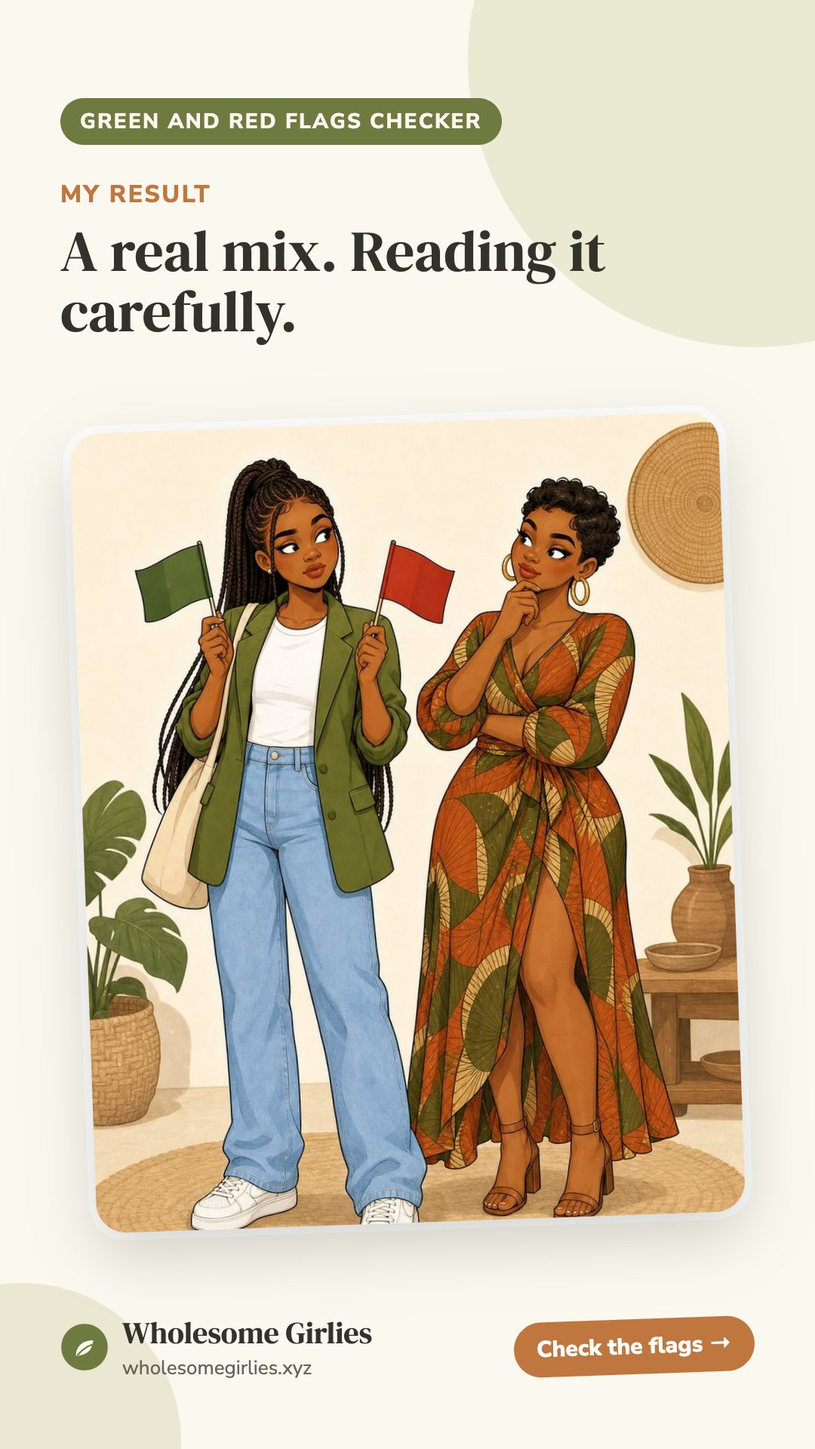
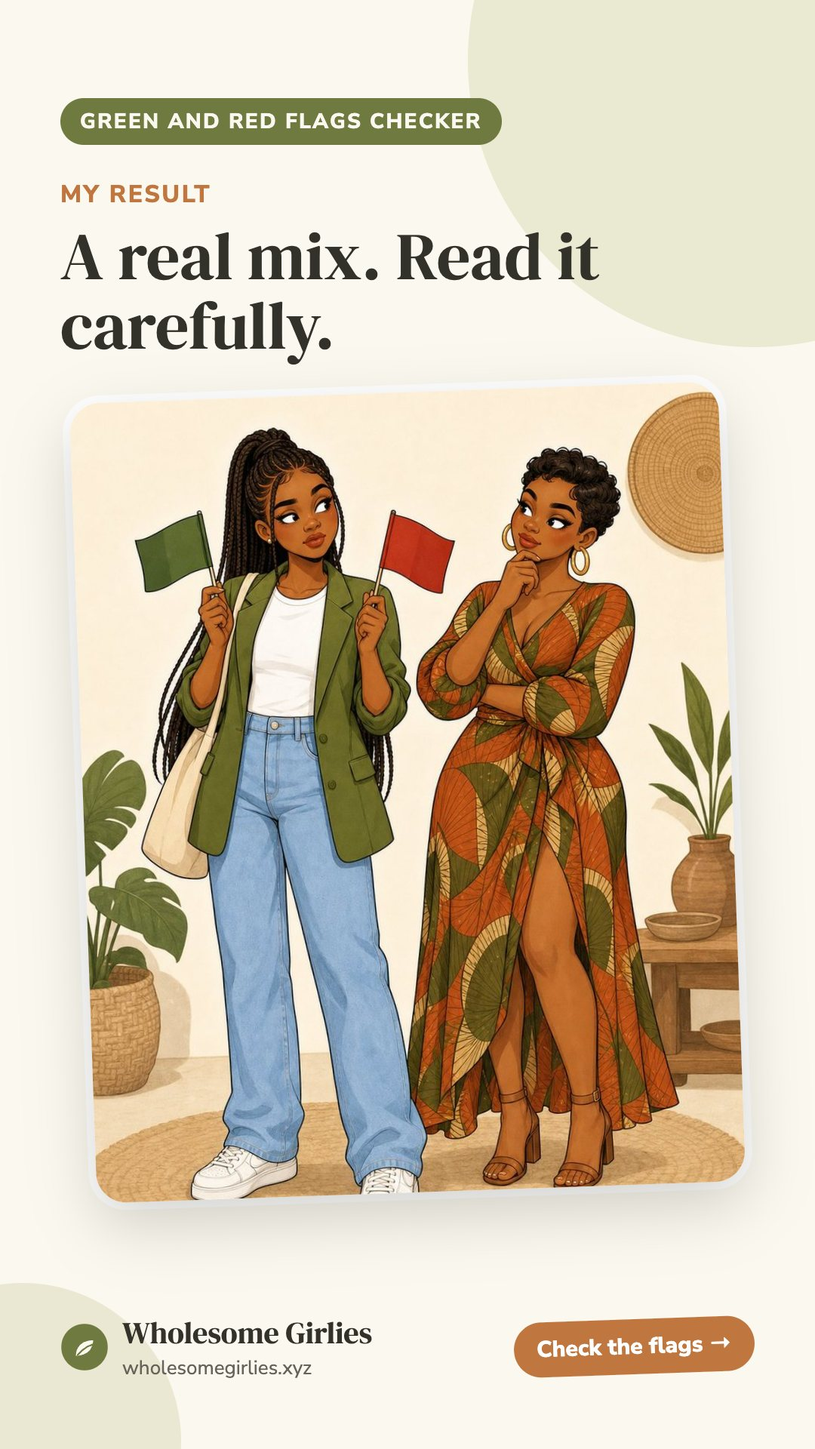
Result cards: plainer result text in results.json, mixed card re-rendered, RESULT_VERSION 20261008a; situationship checker intro drops an unsourced claim

Changed region(s): [[0.0917, 0.25, 0.9167, 0.875], [0.0611, 0.1562, 0.7333, 0.25]]

diff --git a/relationships/tools/green-red-flags-checker/result/mixed.html b/relationships/tools/green-red-flags-checker/result/mixed.html
@@ -11,23 +11,23 @@ j=d.createElement(s),dl=l!='dataLayer'?'&l='+l:'';j.async=true;j.src=
 'https://www.googletagmanager.com/gtm.js?id='+i+dl;f.parentNode.insertBefore(j,f);
 })(window,document,'script','dataLayer','GTM-KW443M88');</script>
 <!-- End Google Tag Manager -->
-<title>My Green and Red Flags checker result: A real mix. Reading it carefully. | Wholesome Girlies</title>
+<title>My Green and Red Flags checker result: A real mix. Read it carefully. | Wholesome Girlies</title>
 <meta name="robots" content="noindex, nofollow">
-<meta name="description" content="A real mix. Reading it carefully. What would yours say? Take the Green and Red Flags checker on Wholesome Girlies.">
+<meta name="description" content="A real mix. Read it carefully. What would yours say? Take the Green and Red Flags checker on Wholesome Girlies.">
 <link rel="canonical" href="https://wholesomegirlies.xyz/relationships/tools/green-red-flags-checker/result/mixed">
 <meta property="og:type" content="website">
 <meta property="og:site_name" content="Wholesome Girlies">
-<meta property="og:title" content="My Green and Red Flags checker result: A real mix. Reading it carefully.">
+<meta property="og:title" content="My Green and Red Flags checker result: A real mix. Read it carefully.">
 <meta property="og:description" content="What would yours say? Take the Green and Red Flags checker on Wholesome Girlies.">
 <meta property="og:url" content="https://wholesomegirlies.xyz/relationships/tools/green-red-flags-checker/result/mixed">
-<meta property="og:image" content="https://wholesomegirlies.xyz/assets/img/results/green-red-flags-checker/mixed.jpg?v=20261007b">
+<meta property="og:image" content="https://wholesomegirlies.xyz/assets/img/results/green-red-flags-checker/mixed.jpg?v=20261008a">
 <meta property="og:image:width" content="1200">
 <meta property="og:image:height" content="630">
 <meta name="twitter:card" content="summary_large_image">
 <meta name="twitter:site" content="@wgirlieshq">
-<meta name="twitter:title" content="My Green and Red Flags checker result: A real mix. Reading it carefully.">
+<meta name="twitter:title" content="My Green and Red Flags checker result: A real mix. Read it carefully.">
 <meta name="twitter:description" content="What would yours say? Take the Green and Red Flags checker on Wholesome Girlies.">
-<meta name="twitter:image" content="https://wholesomegirlies.xyz/assets/img/results/green-red-flags-checker/mixed.jpg?v=20261007b">
+<meta name="twitter:image" content="https://wholesomegirlies.xyz/assets/img/results/green-red-flags-checker/mixed.jpg?v=20261008a">
 <link rel="preconnect" href="https://fonts.googleapis.com">
 <link rel="preconnect" href="https://fonts.gstatic.com" crossorigin>
 <link rel="stylesheet" href="/assets/css/styles.css?v=20260930a">
@@ -71,8 +71,8 @@ height="0" width="0" style="display:none;visibility:hidden"></iframe></noscript>
   <div class="wrap narrow">
     <div class="breadcrumb"><a href="/">Home</a> / <a href="/relationships/">Relationships</a> / <a href="/relationships/tools/green-red-flags-checker">Green and Red Flags checker</a></div>
     <p class="eyebrow">A shared result · Green and Red Flags checker</p>
-    <h1>A real mix. Reading it carefully.</h1>
-    <p class="muted">There is genuine good here and there are real red flags. The question is whether the reds are workable, or the kind that wear you down over time.</p>
+    <h1>A real mix. Read it carefully.</h1>
+    <p class="muted">There is good here and there are real red flags. Ask yourself whether the reds are things he can change, or the kind that wear you down over time.</p>
   </div>
 </section>
 
@@ -82,7 +82,7 @@ height="0" width="0" style="display:none;visibility:hidden"></iframe></noscript>
     <p class="lead">Someone shared their result from the Green and Red Flags checker. It takes a couple of minutes, and what you answer stays on your phone.</p>
     <a class="btn btn-primary" href="/relationships/tools/green-red-flags-checker?ref=result">Check the flags &rarr;</a>
     <p class="sub">Pass it on</p>
-    <div class="wg-share" data-share-id="green-red-flags-checker:mixed" data-share-surface="result-page" data-share-path="/relationships/tools/green-red-flags-checker/result/mixed" data-share-text="I checked the green and red flags. My read: &quot;A real mix. Reading it carefully&quot; 👀 Tick what you are actually seeing in him and get your own read." data-share-align="center"></div>
+    <div class="wg-share" data-share-id="green-red-flags-checker:mixed" data-share-surface="result-page" data-share-path="/relationships/tools/green-red-flags-checker/result/mixed" data-share-text="I checked the green and red flags. My read: &quot;A real mix. Read it carefully&quot; 👀 Tick what you are actually seeing in him and get your own read." data-share-align="center"></div>
     <p class="muted" style="margin-top:28px;font-size:.9rem;">This is a reflection tool, not a verdict on anyone. It runs in your browser, and nothing anyone answers is saved or sent.</p>
   </div>
 </section>

diff --git a/assets/js/wg-result.js b/assets/js/wg-result.js
@@ -3,8 +3,8 @@
 // empty <div id="wg-result-share"></div> inside the result panel. The share link points at the result page,
 // /<stage>/tools/<tool>/result/<result>, whose link preview is the result card. Her answers never leave the page.
 (function () {
-  var DATA = {"ready-for-love-quiz": {"path": "/relationships/tools/ready-for-love-quiz", "share": "I got \"{title}\" on the Ready for Love quiz 👀 Eight questions on what you want, your standards and what you are healing from. Take it and send me yours.", "results": {"grounded": {"title": "Clear on my standards, and ready."}, "close": {"title": "Close. A little clarity and I'm there."}, "pour-into-you": {"title": "Pouring into me first."}}}, "green-red-flags-checker": {"path": "/relationships/tools/green-red-flags-checker", "share": "I checked the green and red flags. My read: \"{title}\" 👀 Tick what you are actually seeing in him and get your own read.", "results": {"healthy": {"title": "This is looking healthy."}, "watch": {"title": "Mostly good. A couple of things to watch."}, "red-outweighs": {"title": "The red is outweighing the green."}, "mixed": {"title": "A real mix. Reading it carefully."}}}, "situationship-checker": {"path": "/relationships/tools/situationship-checker", "share": "I took the Situationship checker. Verdict: \"{title}\" 😅 Six questions to see if it is a relationship or a situationship. Take it and send me yours.", "results": {"going-somewhere": {"title": "This is going somewhere."}, "undefined": {"title": "Undefined. I deserve a straight answer."}, "choose-you": {"title": "Situationship. I'm choosing me."}}}};
-  var V = "20261007b";
+  var DATA = {"ready-for-love-quiz": {"path": "/relationships/tools/ready-for-love-quiz", "share": "I got \"{title}\" on the Ready for Love quiz 👀 Eight questions on what you want, your standards and what you are healing from. Take it and send me yours.", "results": {"grounded": {"title": "Clear on my standards, and ready."}, "close": {"title": "Close. A little clarity and I'm there."}, "pour-into-you": {"title": "Pouring into me first."}}}, "green-red-flags-checker": {"path": "/relationships/tools/green-red-flags-checker", "share": "I checked the green and red flags. My read: \"{title}\" 👀 Tick what you are actually seeing in him and get your own read.", "results": {"healthy": {"title": "This is looking healthy."}, "watch": {"title": "Mostly good. A couple of things to watch."}, "red-outweighs": {"title": "The red is outweighing the green."}, "mixed": {"title": "A real mix. Read it carefully."}}}, "situationship-checker": {"path": "/relationships/tools/situationship-checker", "share": "I took the Situationship checker. Verdict: \"{title}\" 😅 Six questions to see if it is a relationship or a situationship. Take it and send me yours.", "results": {"going-somewhere": {"title": "This is going somewhere."}, "undefined": {"title": "Undefined. I deserve a straight answer."}, "choose-you": {"title": "Situationship. I'm choosing me."}}}};
+  var V = "20261008a";
   function tool() { var m = location.pathname.match(/\/tools\/([^\/?#.]+)/); return m && m[1]; }
   function push(ev, id) { window.dataLayer = window.dataLayer || []; window.dataLayer.push({ event: ev, share_item: id, share_surface: "result" }); }
   window.wgShowResult = function (type) {

diff --git a/relationships/tools/green-red-flags-checker/result/watch.html b/relationships/tools/green-red-flags-checker/result/watch.html
@@ -20,14 +20,14 @@ j=d.createElement(s),dl=l!='dataLayer'?'&l='+l:'';j.async=true;j.src=
 <meta property="og:title" content="My Green and Red Flags checker result: Mostly good. A couple of things to watch.">
 <meta property="og:description" content="What would yours say? Take the Green and Red Flags checker on Wholesome Girlies.">
 <meta property="og:url" content="https://wholesomegirlies.xyz/relationships/tools/green-red-flags-checker/result/watch">
-<meta property="og:image" content="https://wholesomegirlies.xyz/assets/img/results/green-red-flags-checker/watch.jpg?v=20261007b">
+<meta property="og:image" content="https://wholesomegirlies.xyz/assets/img/results/green-red-flags-checker/watch.jpg?v=20261008a">
 <meta property="og:image:width" content="1200">
 <meta property="og:image:height" content="630">
 <meta name="twitter:card" content="summary_large_image">
 <meta name="twitter:site" content="@wgirlieshq">
 <meta name="twitter:title" content="My Green and Red Flags checker result: Mostly good. A couple of things to watch.">
 <meta name="twitter:description" content="What would yours say? Take the Green and Red Flags checker on Wholesome Girlies.">
-<meta name="twitter:image" content="https://wholesomegirlies.xyz/assets/img/results/green-red-flags-checker/watch.jpg?v=20261007b">
+<meta name="twitter:image" content="https://wholesomegirlies.xyz/assets/img/results/green-red-flags-checker/watch.jpg?v=20261008a">
 <link rel="preconnect" href="https://fonts.googleapis.com">
 <link rel="preconnect" href="https://fonts.gstatic.com" crossorigin>
 <link rel="stylesheet" href="/assets/css/styles.css?v=20260930a">
@@ -72,7 +72,7 @@ height="0" width="0" style="display:none;visibility:hidden"></iframe></noscript>
     <div class="breadcrumb"><a href="/">Home</a> / <a href="/relationships/">Relationships</a> / <a href="/relationships/tools/green-red-flags-checker">Green and Red Flags checker</a></div>
     <p class="eyebrow">A shared result · Green and Red Flags checker</p>
     <h1>Mostly good. A couple of things to watch.</h1>
-    <p class="muted">The care is real, and so are one or two patterns worth naming. Small red flags left unspoken tend to grow, so name them once, in a private conversation, and watch how he responds.</p>
+    <p class="muted">The care is real, and so are one or two patterns worth naming. Small red flags left unsaid tend to grow. Raise them once, in private, and watch how he responds.</p>
   </div>
 </section>
 

diff --git a/relationships/tools/situationship-checker/result/choose-you.html b/relationships/tools/situationship-checker/result/choose-you.html
@@ -20,14 +20,14 @@ j=d.createElement(s),dl=l!='dataLayer'?'&l='+l:'';j.async=true;j.src=
 <meta property="og:title" content="My Situationship checker result: Situationship. I&#x27;m choosing me.">
 <meta property="og:description" content="What would yours say? Take the Situationship checker on Wholesome Girlies.">
 <meta property="og:url" content="https://wholesomegirlies.xyz/relationships/tools/situationship-checker/result/choose-you">
-<meta property="og:image" content="https://wholesomegirlies.xyz/assets/img/results/situationship-checker/choose-you.jpg?v=20261007b">
+<meta property="og:image" content="https://wholesomegirlies.xyz/assets/img/results/situationship-checker/choose-you.jpg?v=20261008a">
 <meta property="og:image:width" content="1200">
 <meta property="og:image:height" content="630">
 <meta name="twitter:card" content="summary_large_image">
 <meta name="twitter:site" content="@wgirlieshq">
 <meta name="twitter:title" content="My Situationship checker result: Situationship. I&#x27;m choosing me.">
 <meta name="twitter:description" content="What would yours say? Take the Situationship checker on Wholesome Girlies.">
-<meta name="twitter:image" content="https://wholesomegirlies.xyz/assets/img/results/situationship-checker/choose-you.jpg?v=20261007b">
+<meta name="twitter:image" content="https://wholesomegirlies.xyz/assets/img/results/situationship-checker/choose-you.jpg?v=20261008a">
 <link rel="preconnect" href="https://fonts.googleapis.com">
 <link rel="preconnect" href="https://fonts.gstatic.com" crossorigin>
 <link rel="stylesheet" href="/assets/css/styles.css?v=20260930a">
@@ -72,7 +72,7 @@ height="0" width="0" style="display:none;visibility:hidden"></iframe></noscript>
     <div class="breadcrumb"><a href="/">Home</a> / <a href="/relationships/">Relationships</a> / <a href="/relationships/tools/situationship-checker">Situationship checker</a></div>
     <p class="eyebrow">A shared result · Situationship checker</p>
     <h1>Situationship. I&#x27;m choosing me.</h1>
-    <p class="muted">The consistency, the future and the way he shows up in public do not match what you want. That is a mismatch, not a puzzle to solve by waiting, and you get to choose yourself.</p>
+    <p class="muted">How consistent he is, whether he plans a future with you and how he shows up in public do not match what you want. Waiting will not change that. You can choose yourself.</p>
   </div>
 </section>
 

diff --git a/relationships/tools/green-red-flags-checker/result/red-outweighs.html b/relationships/tools/green-red-flags-checker/result/red-outweighs.html
@@ -20,14 +20,14 @@ j=d.createElement(s),dl=l!='dataLayer'?'&l='+l:'';j.async=true;j.src=
 <meta property="og:title" content="My Green and Red Flags checker result: The red is outweighing the green.">
 <meta property="og:description" content="What would yours say? Take the Green and Red Flags checker on Wholesome Girlies.">
 <meta property="og:url" content="https://wholesomegirlies.xyz/relationships/tools/green-red-flags-checker/result/red-outweighs">
-<meta property="og:image" content="https://wholesomegirlies.xyz/assets/img/results/green-red-flags-checker/red-outweighs.jpg?v=20261007b">
+<meta property="og:image" content="https://wholesomegirlies.xyz/assets/img/results/green-red-flags-checker/red-outweighs.jpg?v=20261008a">
 <meta property="og:image:width" content="1200">
 <meta property="og:image:height" content="630">
 <meta name="twitter:card" content="summary_large_image">
 <meta name="twitter:site" content="@wgirlieshq">
 <meta name="twitter:title" content="My Green and Red Flags checker result: The red is outweighing the green.">
 <meta name="twitter:description" content="What would yours say? Take the Green and Red Flags checker on Wholesome Girlies.">
-<meta name="twitter:image" content="https://wholesomegirlies.xyz/assets/img/results/green-red-flags-checker/red-outweighs.jpg?v=20261007b">
+<meta name="twitter:image" content="https://wholesomegirlies.xyz/assets/img/results/green-red-flags-checker/red-outweighs.jpg?v=20261008a">
 <link rel="preconnect" href="https://fonts.googleapis.com">
 <link rel="preconnect" href="https://fonts.gstatic.com" crossorigin>
 <link rel="stylesheet" href="/assets/css/styles.css?v=20260930a">
@@ -72,7 +72,7 @@ height="0" width="0" style="display:none;visibility:hidden"></iframe></noscript>
     <div class="breadcrumb"><a href="/">Home</a> / <a href="/relationships/">Relationships</a> / <a href="/relationships/tools/green-red-flags-checker">Green and Red Flags checker</a></div>
     <p class="eyebrow">A shared result · Green and Red Flags checker</p>
     <h1>The red is outweighing the green.</h1>
-    <p class="muted">That gap is information. It usually does not close by loving harder or waiting longer. Stepping back from someone who keeps hurting you is not cruelty.</p>
+    <p class="muted">That gap tells you something. Loving harder or waiting longer rarely closes it. If he keeps hurting you, stepping back is self-respect.</p>
   </div>
 </section>
 

diff --git a/relationships/tools/ready-for-love-quiz/result/pour-into-you.html b/relationships/tools/ready-for-love-quiz/result/pour-into-you.html
@@ -20,14 +20,14 @@ j=d.createElement(s),dl=l!='dataLayer'?'&l='+l:'';j.async=true;j.src=
 <meta property="og:title" content="My Ready for Love quiz result: Pouring into me first.">
 <meta property="og:description" content="What would yours say? Take the Ready for Love quiz on Wholesome Girlies.">
 <meta property="og:url" content="https://wholesomegirlies.xyz/relationships/tools/ready-for-love-quiz/result/pour-into-you">
-<meta property="og:image" content="https://wholesomegirlies.xyz/assets/img/results/ready-for-love-quiz/pour-into-you.jpg?v=20261007b">
+<meta property="og:image" content="https://wholesomegirlies.xyz/assets/img/results/ready-for-love-quiz/pour-into-you.jpg?v=20261008a">
 <meta property="og:image:width" content="1200">
 <meta property="og:image:height" content="630">
 <meta name="twitter:card" content="summary_large_image">
 <meta name="twitter:site" content="@wgirlieshq">
 <meta name="twitter:title" content="My Ready for Love quiz result: Pouring into me first.">
 <meta name="twitter:description" content="What would yours say? Take the Ready for Love quiz on Wholesome Girlies.">
-<meta name="twitter:image" content="https://wholesomegirlies.xyz/assets/img/results/ready-for-love-quiz/pour-into-you.jpg?v=20261007b">
+<meta name="twitter:image" content="https://wholesomegirlies.xyz/assets/img/results/ready-for-love-quiz/pour-into-you.jpg?v=20261008a">
 <link rel="preconnect" href="https://fonts.googleapis.com">
 <link rel="preconnect" href="https://fonts.gstatic.com" crossorigin>
 <link rel="stylesheet" href="/assets/css/styles.css?v=20260930a">
@@ -72,7 +72,7 @@ height="0" width="0" style="display:none;visibility:hidden"></iframe></noscript>
     <div class="breadcrumb"><a href="/">Home</a> / <a href="/relationships/">Relationships</a> / <a href="/relationships/tools/ready-for-love-quiz">Ready for Love quiz</a></div>
     <p class="eyebrow">A shared result · Ready for Love quiz</p>
     <h1>Pouring into me first.</h1>
-    <p class="muted">Pressure, an unhealed chapter, or not yet knowing what you want is steering the wheel. None of that means anything is wrong with you. It means you get to come home to yourself before you choose anyone.</p>
+    <p class="muted">Pressure, an old hurt or not yet knowing what you want is steering the wheel. Nothing is wrong with you. You can take time to get to know yourself before you choose anyone.</p>
   </div>
 </section>
 

diff --git a/relationships/tools/green-red-flags-checker/result/healthy.html b/relationships/tools/green-red-flags-checker/result/healthy.html
@@ -20,14 +20,14 @@ j=d.createElement(s),dl=l!='dataLayer'?'&l='+l:'';j.async=true;j.src=
 <meta property="og:title" content="My Green and Red Flags checker result: This is looking healthy.">
 <meta property="og:description" content="What would yours say? Take the Green and Red Flags checker on Wholesome Girlies.">
 <meta property="og:url" content="https://wholesomegirlies.xyz/relationships/tools/green-red-flags-checker/result/healthy">
-<meta property="og:image" content="https://wholesomegirlies.xyz/assets/img/results/green-red-flags-checker/healthy.jpg?v=20261007b">
+<meta property="og:image" content="https://wholesomegirlies.xyz/assets/img/results/green-red-flags-checker/healthy.jpg?v=20261008a">
 <meta property="og:image:width" content="1200">
 <meta property="og:image:height" content="630">
 <meta name="twitter:card" content="summary_large_image">
 <meta name="twitter:site" content="@wgirlieshq">
 <meta name="twitter:title" content="My Green and Red Flags checker result: This is looking healthy.">
 <meta name="twitter:description" content="What would yours say? Take the Green and Red Flags checker on Wholesome Girlies.">
-<meta name="twitter:image" content="https://wholesomegirlies.xyz/assets/img/results/green-red-flags-checker/healthy.jpg?v=20261007b">
+<meta name="twitter:image" content="https://wholesomegirlies.xyz/assets/img/results/green-red-flags-checker/healthy.jpg?v=20261008a">
 <link rel="preconnect" href="https://fonts.googleapis.com">
 <link rel="preconnect" href="https://fonts.gstatic.com" crossorigin>
 <link rel="stylesheet" href="/assets/css/styles.css?v=20260930a">
@@ -72,7 +72,7 @@ height="0" width="0" style="display:none;visibility:hidden"></iframe></noscript>
     <div class="breadcrumb"><a href="/">Home</a> / <a href="/relationships/">Relationships</a> / <a href="/relationships/tools/green-red-flags-checker">Green and Red Flags checker</a></div>
     <p class="eyebrow">A shared result · Green and Red Flags checker</p>
     <h1>This is looking healthy.</h1>
-    <p class="muted">Real care, consistency and respect, and no red flags so far. Green flags are confirmed by consistency over time, not by one good week.</p>
+    <p class="muted">He shows care, he is consistent and he respects you, and you have ticked no red flags so far. A green flag is proven over months. One good week does not prove it.</p>
   </div>
 </section>
 

diff --git a/relationships/tools/ready-for-love-quiz/result/grounded.html b/relationships/tools/ready-for-love-quiz/result/grounded.html
@@ -20,14 +20,14 @@ j=d.createElement(s),dl=l!='dataLayer'?'&l='+l:'';j.async=true;j.src=
 <meta property="og:title" content="My Ready for Love quiz result: Clear on my standards, and ready.">
 <meta property="og:description" content="What would yours say? Take the Ready for Love quiz on Wholesome Girlies.">
 <meta property="og:url" content="https://wholesomegirlies.xyz/relationships/tools/ready-for-love-quiz/result/grounded">
-<meta property="og:image" content="https://wholesomegirlies.xyz/assets/img/results/ready-for-love-quiz/grounded.jpg?v=20261007b">
+<meta property="og:image" content="https://wholesomegirlies.xyz/assets/img/results/ready-for-love-quiz/grounded.jpg?v=20261008a">
 <meta property="og:image:width" content="1200">
 <meta property="og:image:height" content="630">
 <meta name="twitter:card" content="summary_large_image">
 <meta name="twitter:site" content="@wgirlieshq">
 <meta name="twitter:title" content="My Ready for Love quiz result: Clear on my standards, and ready.">
 <meta name="twitter:description" content="What would yours say? Take the Ready for Love quiz on Wholesome Girlies.">
-<meta name="twitter:image" content="https://wholesomegirlies.xyz/assets/img/results/ready-for-love-quiz/grounded.jpg?v=20261007b">
+<meta name="twitter:image" content="https://wholesomegirlies.xyz/assets/img/results/ready-for-love-quiz/grounded.jpg?v=20261008a">
 <link rel="preconnect" href="https://fonts.googleapis.com">
 <link rel="preconnect" href="https://fonts.gstatic.com" crossorigin>
 <link rel="stylesheet" href="/assets/css/styles.css?v=20260930a">
@@ -72,7 +72,7 @@ height="0" width="0" style="display:none;visibility:hidden"></iframe></noscript>
     <div class="breadcrumb"><a href="/">Home</a> / <a href="/relationships/">Relationships</a> / <a href="/relationships/tools/ready-for-love-quiz">Ready for Love quiz</a></div>
     <p class="eyebrow">A shared result · Ready for Love quiz</p>
     <h1>Clear on my standards, and ready.</h1>
-    <p class="muted">You know what you want, you hold your standards, and you are choosing rather than chasing. Keep protecting your time and your standards, they are your best filter.</p>
+    <p class="muted">You know what you want and you hold your standards. When a man falls short, you notice and you act on it. Keep guarding your time. Your standards are your best filter.</p>
   </div>
 </section>
 

diff --git a/relationships/tools/ready-for-love-quiz/result/close.html b/relationships/tools/ready-for-love-quiz/result/close.html
@@ -20,14 +20,14 @@ j=d.createElement(s),dl=l!='dataLayer'?'&l='+l:'';j.async=true;j.src=
 <meta property="og:title" content="My Ready for Love quiz result: Close. A little clarity and I&#x27;m there.">
 <meta property="og:description" content="What would yours say? Take the Ready for Love quiz on Wholesome Girlies.">
 <meta property="og:url" content="https://wholesomegirlies.xyz/relationships/tools/ready-for-love-quiz/result/close">
-<meta property="og:image" content="https://wholesomegirlies.xyz/assets/img/results/ready-for-love-quiz/close.jpg?v=20261007b">
+<meta property="og:image" content="https://wholesomegirlies.xyz/assets/img/results/ready-for-love-quiz/close.jpg?v=20261008a">
 <meta property="og:image:width" content="1200">
 <meta property="og:image:height" content="630">
 <meta name="twitter:card" content="summary_large_image">
 <meta name="twitter:site" content="@wgirlieshq">
 <meta name="twitter:title" content="My Ready for Love quiz result: Close. A little clarity and I&#x27;m there.">
 <meta name="twitter:description" content="What would yours say? Take the Ready for Love quiz on Wholesome Girlies.">
-<meta name="twitter:image" content="https://wholesomegirlies.xyz/assets/img/results/ready-for-love-quiz/close.jpg?v=20261007b">
+<meta name="twitter:image" content="https://wholesomegirlies.xyz/assets/img/results/ready-for-love-quiz/close.jpg?v=20261008a">
 <link rel="preconnect" href="https://fonts.googleapis.com">
 <link rel="preconnect" href="https://fonts.gstatic.com" crossorigin>
 <link rel="stylesheet" href="/assets/css/styles.css?v=20260930a">
@@ -72,7 +72,7 @@ height="0" width="0" style="display:none;visibility:hidden"></iframe></noscript>
     <div class="breadcrumb"><a href="/">Home</a> / <a href="/relationships/">Relationships</a> / <a href="/relationships/tools/ready-for-love-quiz">Ready for Love quiz</a></div>
     <p class="eyebrow">A shared result · Ready for Love quiz</p>
     <h1>Close. A little clarity and I&#x27;m there.</h1>
-    <p class="muted">There is real ground under you. A few areas are being run by pressure or old hurt rather than clarity. Those are learnable, not flaws.</p>
+    <p class="muted">There is real ground under you. In a few areas, pressure from family or an old hurt is deciding for you. You can learn to catch that, and it is not a flaw.</p>
   </div>
 </section>
 

diff --git a/relationships/tools/situationship-checker/result/undefined.html b/relationships/tools/situationship-checker/result/undefined.html
@@ -20,14 +20,14 @@ j=d.createElement(s),dl=l!='dataLayer'?'&l='+l:'';j.async=true;j.src=
 <meta property="og:title" content="My Situationship checker result: Undefined. I deserve a straight answer.">
 <meta property="og:description" content="What would yours say? Take the Situationship checker on Wholesome Girlies.">
 <meta property="og:url" content="https://wholesomegirlies.xyz/relationships/tools/situationship-checker/result/undefined">
-<meta property="og:image" content="https://wholesomegirlies.xyz/assets/img/results/situationship-checker/undefined.jpg?v=20261007b">
+<meta property="og:image" content="https://wholesomegirlies.xyz/assets/img/results/situationship-checker/undefined.jpg?v=20261008a">
 <meta property="og:image:width" content="1200">
 <meta property="og:image:height" content="630">
 <meta name="twitter:card" content="summary_large_image">
 <meta name="twitter:site" content="@wgirlieshq">
 <meta name="twitter:title" content="My Situationship checker result: Undefined. I deserve a straight answer.">
 <meta name="twitter:description" content="What would yours say? Take the Situationship checker on Wholesome Girlies.">
-<meta name="twitter:image" content="https://wholesomegirlies.xyz/assets/img/results/situationship-checker/undefined.jpg?v=20261007b">
+<meta name="twitter:image" content="https://wholesomegirlies.xyz/assets/img/results/situationship-checker/undefined.jpg?v=20261008a">
 <link rel="preconnect" href="https://fonts.googleapis.com">
 <link rel="preconnect" href="https://fonts.gstatic.com" crossorigin>
 <link rel="stylesheet" href="/assets/css/styles.css?v=20260930a">
@@ -72,7 +72,7 @@ height="0" width="0" style="display:none;visibility:hidden"></iframe></noscript>
     <div class="breadcrumb"><a href="/">Home</a> / <a href="/relationships/">Relationships</a> / <a href="/relationships/tools/situationship-checker">Situationship checker</a></div>
     <p class="eyebrow">A shared result · Situationship checker</p>
     <h1>Undefined. I deserve a straight answer.</h1>
-    <p class="muted">There is something real, but it is vague enough to keep you guessing. You are allowed to ask for a definition and a direction.</p>
+    <p class="muted">There is something real, but it is vague enough to keep you guessing. You can ask him what you are and where this is going.</p>
   </div>
 </section>
 

diff --git a/relationships/tools/situationship-checker/result/going-somewhere.html b/relationships/tools/situationship-checker/result/going-somewhere.html
@@ -20,14 +20,14 @@ j=d.createElement(s),dl=l!='dataLayer'?'&l='+l:'';j.async=true;j.src=
 <meta property="og:title" content="My Situationship checker result: This is going somewhere.">
 <meta property="og:description" content="What would yours say? Take the Situationship checker on Wholesome Girlies.">
 <meta property="og:url" content="https://wholesomegirlies.xyz/relationships/tools/situationship-checker/result/going-somewhere">
-<meta property="og:image" content="https://wholesomegirlies.xyz/assets/img/results/situationship-checker/going-somewhere.jpg?v=20261007b">
+<meta property="og:image" content="https://wholesomegirlies.xyz/assets/img/results/situationship-checker/going-somewhere.jpg?v=20261008a">
 <meta property="og:image:width" content="1200">
 <meta property="og:image:height" content="630">
 <meta name="twitter:card" content="summary_large_image">
 <meta name="twitter:site" content="@wgirlieshq">
 <meta name="twitter:title" content="My Situationship checker result: This is going somewhere.">
 <meta name="twitter:description" content="What would yours say? Take the Situationship checker on Wholesome Girlies.">
-<meta name="twitter:image" content="https://wholesomegirlies.xyz/assets/img/results/situationship-checker/going-somewhere.jpg?v=20261007b">
+<meta name="twitter:image" content="https://wholesomegirlies.xyz/assets/img/results/situationship-checker/going-somewhere.jpg?v=20261008a">
 <link rel="preconnect" href="https://fonts.googleapis.com">
 <link rel="preconnect" href="https://fonts.gstatic.com" crossorigin>
 <link rel="stylesheet" href="/assets/css/styles.css?v=20260930a">
@@ -72,7 +72,7 @@ height="0" width="0" style="display:none;visibility:hidden"></iframe></noscript>
     <div class="breadcrumb"><a href="/">Home</a> / <a href="/relationships/">Relationships</a> / <a href="/relationships/tools/situationship-checker">Situationship checker</a></div>
     <p class="eyebrow">A shared result · Situationship checker</p>
     <h1>This is going somewhere.</h1>
-    <p class="muted">He is consistent, open about the future, and treats you as his. If you want it named so you can relax into it, that is a fair and easy ask.</p>
+    <p class="muted">He is consistent, he talks about the future and he treats you as his. If you want it named, asking is fair and easy.</p>
   </div>
 </section>
 

diff --git a/relationships/tools/situationship-checker.html b/relationships/tools/situationship-checker.html
@@ -140,7 +140,7 @@ height="0" width="0" style="display:none;visibility:hidden"></iframe></noscript>
     <p>Nothing you tap is stored or sent. It runs in your browser and forgets you the moment you close the tab.</p>
 
     <h2 style="margin-top:34px;">How to read your result</h2>
-    <p>This checker shows, in one place, what you already know in pieces. Most women who take it are not surprised by the outcome. They are relieved that it has been said plainly.</p>
+    <p>You probably already know the answer in pieces: the missed plans, the vague replies, the weekends he goes quiet. This checker puts those pieces in one place and says the result plainly.</p>
     <ul><li><strong>This is a situationship.</strong> It is months in and undefined, and the vagueness suits one of you. Read <a href="/relationships/guides/situationship">what a situationship is</a> and decide before the next conversation what you will do if nothing changes.</li><li><strong>It is undefined.</strong> Early and undefined is normal in a talking stage. It stops being normal somewhere past eight to twelve weeks of near-daily contact. See <a href="/relationships/guides/talking-stage">the talking stage</a>.</li><li><strong>This is going somewhere.</strong> He is steady, talks about the future and treats you as his. Asking for the label is a fair and easy ask.</li></ul>
     <h2 style="margin-top:34px;">What to do next</h2>
     <p>One conversation, with a decision made before you walk into it. Say what you want, ask what he wants, and know in advance what you will do if the answer is <em>let us see how it goes</em>, because that is not an answer.</p>
@@ -294,7 +294,7 @@ function scoreQuiz(){
   res.scrollIntoView({behavior:'smooth', block:'nearest'});
 }
 </script>
-<script src="/assets/js/wg-result.js?v=20261007b" defer></script>
+<script src="/assets/js/wg-result.js?v=20261008a" defer></script>
 <script src="/assets/js/member-cta.js" defer></script>
 <script defer src="/assets/vendor/cookieconsent/cookieconsent.umd.js?v=3.1.0"></script>
 <script defer src="/assets/js/wg-consent.js?v=20260915b"></script>
